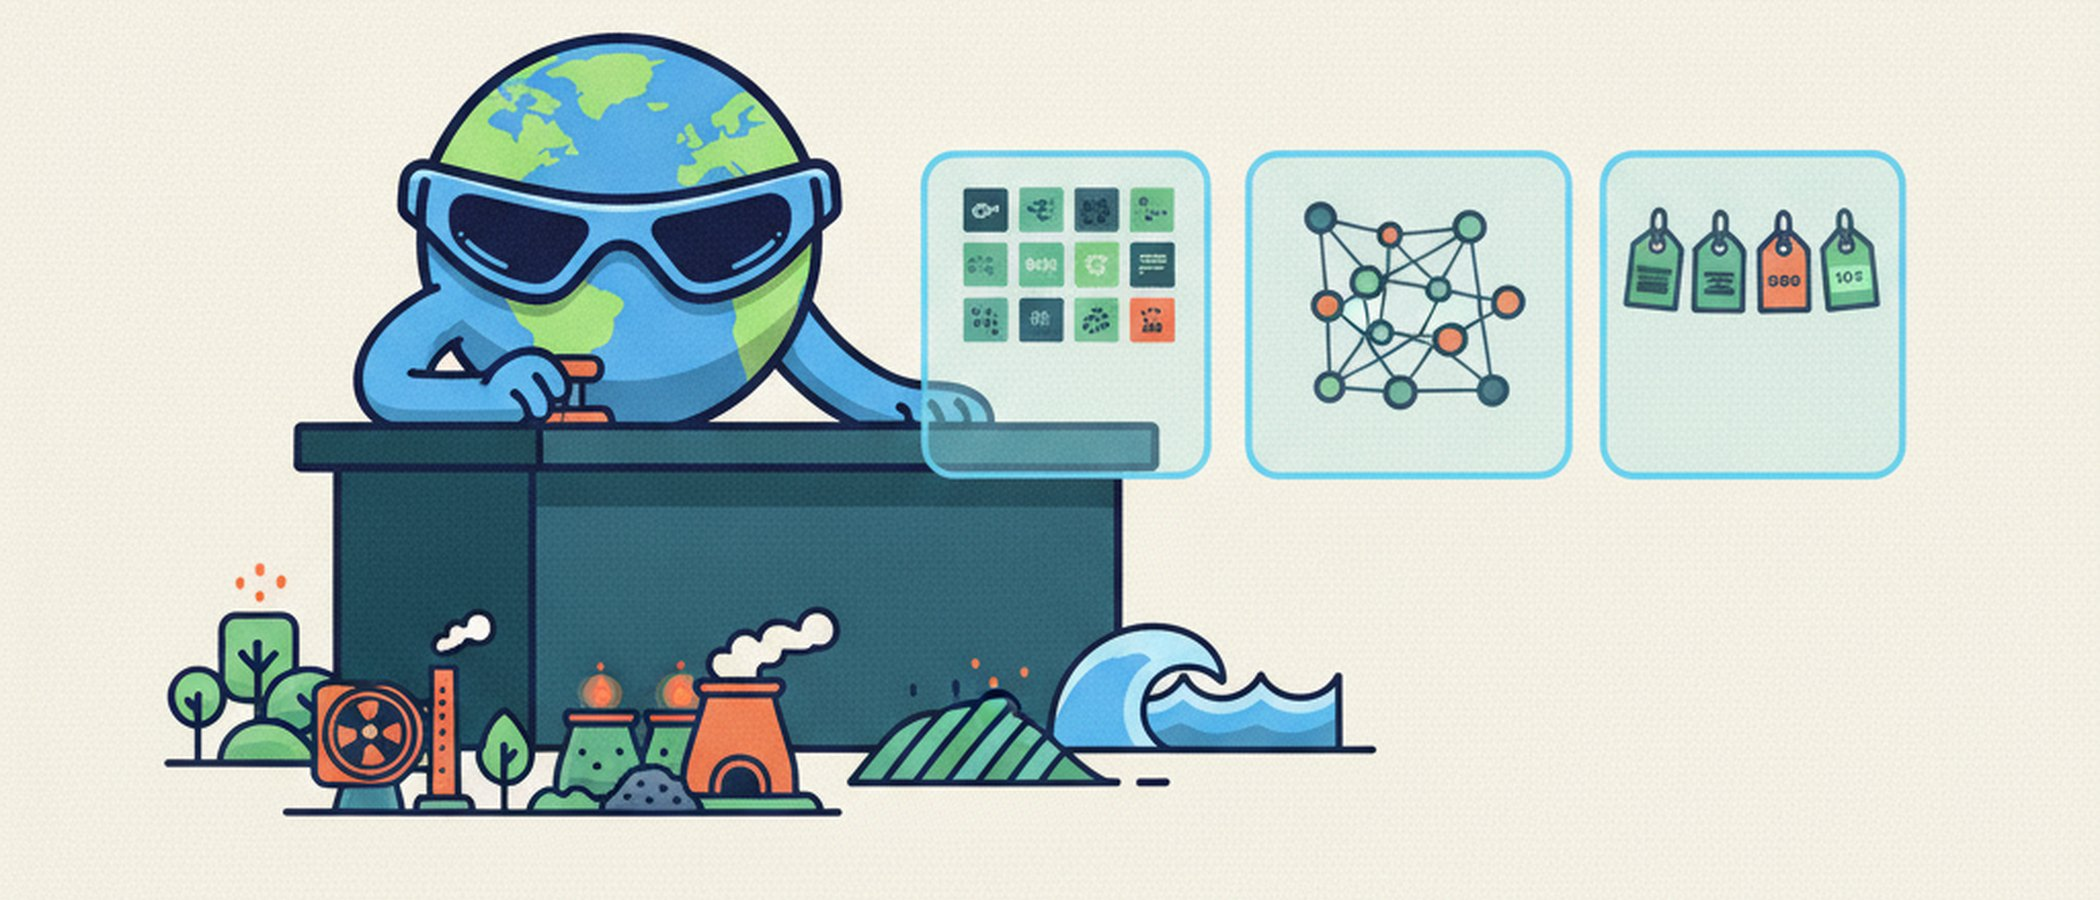
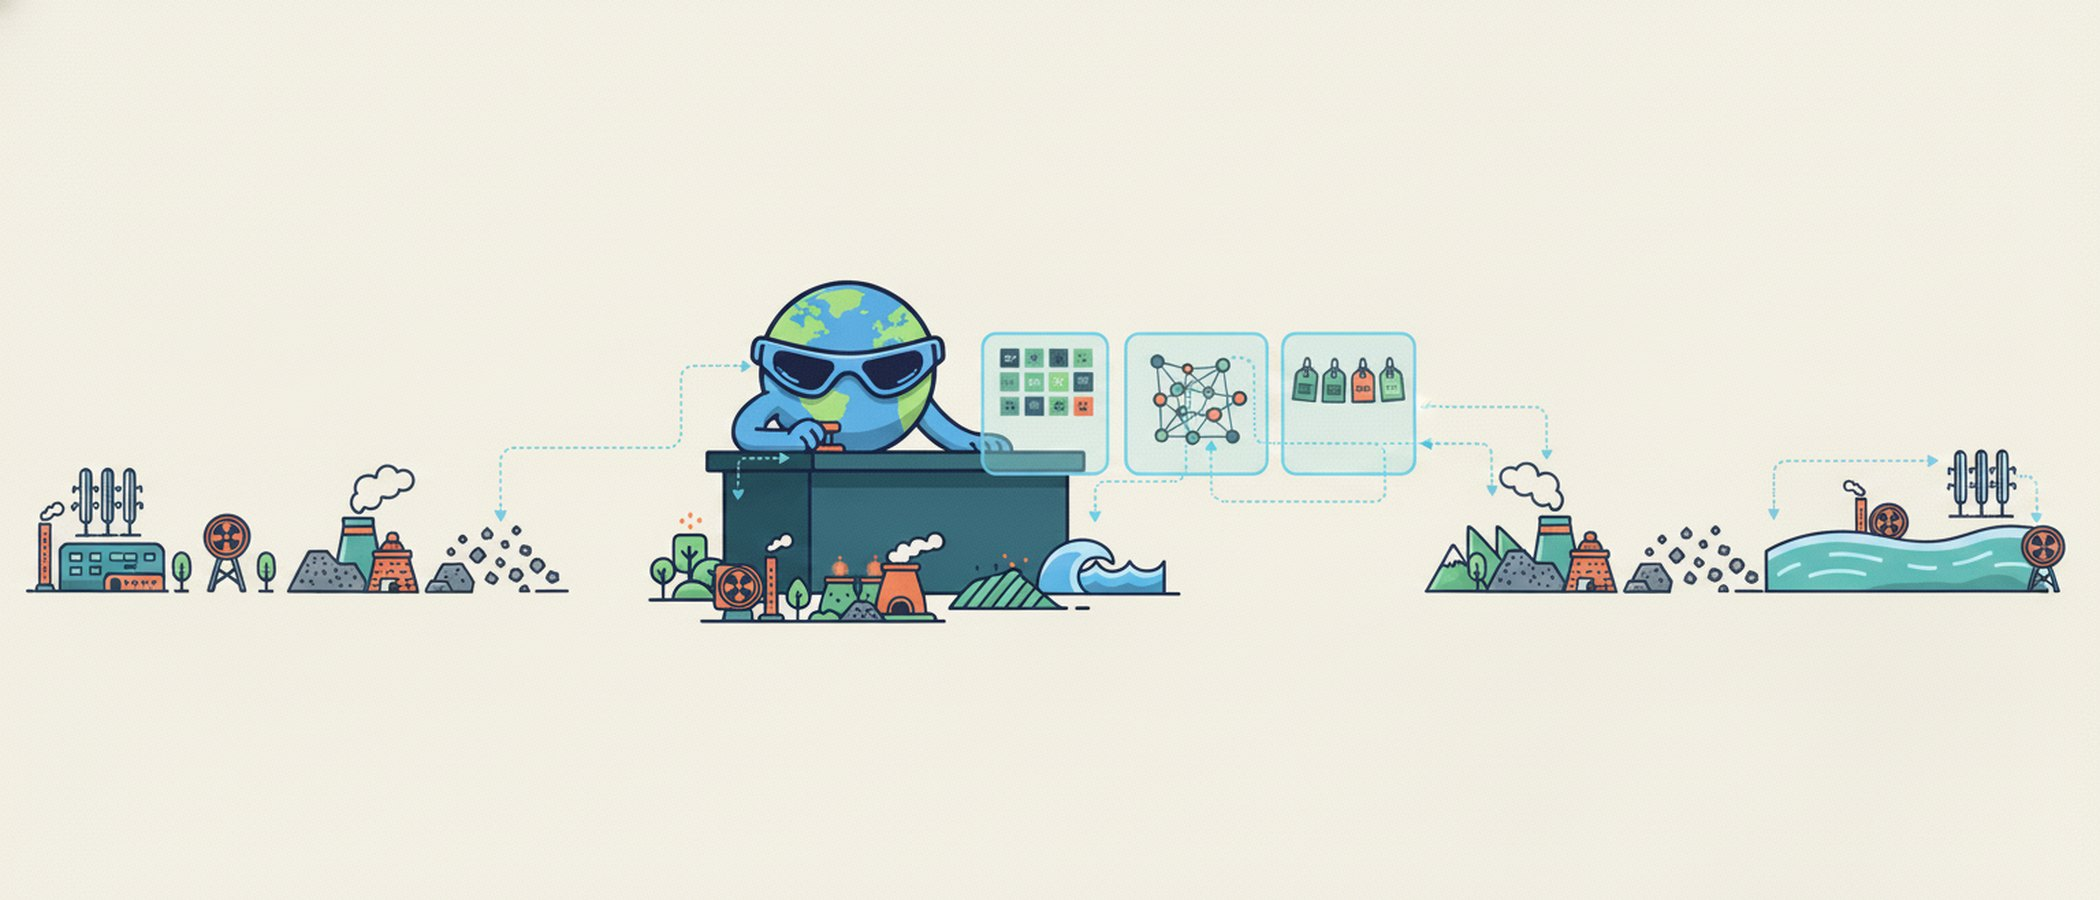
Homepage hero B (wide Captain scene); directory pathway cards in a titled box; ERW chips
Claude-Session: https://claude.ai/code/session_01VKpAB4eLMmejb9sQekW26b

diff --git a/assets/css/extended/10-pictograms.css b/assets/css/extended/10-pictograms.css
@@ -22,6 +22,7 @@
 
 /* Pathway cards (directory index) */
 .cd-pwgrid { display: grid; grid-template-columns: repeat(auto-fit, minmax(150px, 1fr)); gap: var(--space-3); margin: var(--space-4) 0 var(--space-5); }
+.cd-stripgroup .cd-pwgrid { margin: 0; }
 .cd-pwcard { display: flex; flex-direction: column; gap: 6px; padding: var(--space-3) var(--space-4); background: var(--surface-1); border: 1px solid var(--line); border-radius: var(--radius-md); color: var(--ink); text-decoration: none; }
 .cd-pwcard:hover { background: var(--surface-2); text-decoration: none; }
 .cd-pwcard .n { font-family: var(--font-sans); font-size: 26px; line-height: 30px; font-weight: 700; font-variant-numeric: tabular-nums; }

diff --git a/content/directory/_index.md b/content/directory/_index.md
@@ -8,7 +8,9 @@ wide: true
 
 <div class="cd-stripgroup"><h3 class="cd-strip-h">The directory</h3><div class="cd-strip"><div class="cd-stat"><span class="cd-ic cd-ic--published" aria-hidden="true"></span><span class="num">913</span><span class="label">published</span></div><div class="cd-stat"><span class="cd-ic cd-ic--monitored" aria-hidden="true"></span><span class="num">1,470</span><span class="label">monitored</span></div><div class="cd-stat"><span class="cd-ic cd-ic--countries" aria-hidden="true"></span><span class="num">65</span><span class="label">countries</span></div><div class="cd-stat"><span class="cd-ic cd-ic--pathways" aria-hidden="true"></span><span class="num">8</span><span class="label">pathways</span></div></div></div><div class="cd-stripgroup"><h3 class="cd-strip-h">Where the companies are based</h3><div class="cd-strip"><div class="cd-stat"><span class="cd-ic cd-ic--region" aria-hidden="true"></span><span class="num">356</span><span class="label">in the Americas</span></div><div class="cd-stat"><span class="cd-ic cd-ic--region" aria-hidden="true"></span><span class="num">403</span><span class="label">in Europe</span></div><div class="cd-stat"><span class="cd-ic cd-ic--region" aria-hidden="true"></span><span class="num">117</span><span class="label">in Asia and Oceania</span></div><div class="cd-stat"><span class="cd-ic cd-ic--region" aria-hidden="true"></span><span class="num">32</span><span class="label">in Africa</span></div></div></div><div class="cd-stripgroup"><h3 class="cd-strip-h">Liveliness status</h3><div class="cd-strip"><div class="cd-stat cd-stat--active"><span class="cd-ic cd-ic--active" aria-hidden="true"></span><span class="num">690</span><span class="label">Active</span></div><div class="cd-stat cd-stat--moderate"><span class="cd-ic cd-ic--moderate" aria-hidden="true"></span><span class="num">77</span><span class="label">Moderate</span></div><div class="cd-stat cd-stat--suspect"><span class="cd-ic cd-ic--suspect" aria-hidden="true"></span><span class="num">32</span><span class="label">Suspect</span></div><div class="cd-stat cd-stat--dead"><span class="cd-ic cd-ic--dead" aria-hidden="true"></span><span class="num">114</span><span class="label">Likely dead</span></div></div></div>
 
+<div class="cd-stripgroup"><h3 class="cd-strip-h">By primary pathway</h3>
 <div class="cd-pwgrid"><a class="cd-pwcard" href="/directory/biochar/"><span class="cd-pw cd-pw--biochar cd-pw--lg" aria-hidden="true"></span><span class="n">377</span><span class="l">Biochar</span></a><a class="cd-pwcard" href="/directory/enabling-tech/"><span class="cd-pw cd-pw--enabling-tech cd-pw--lg" aria-hidden="true"></span><span class="n">179</span><span class="l">Enabling Tech</span></a><a class="cd-pwcard" href="/directory/dac/"><span class="cd-pw cd-pw--dac cd-pw--lg" aria-hidden="true"></span><span class="n">125</span><span class="l">DAC</span></a><a class="cd-pwcard" href="/directory/beccs/"><span class="cd-pw cd-pw--beccs cd-pw--lg" aria-hidden="true"></span><span class="n">84</span><span class="l">BECCS</span></a><a class="cd-pwcard" href="/directory/mineralization/"><span class="cd-pw cd-pw--mineralization cd-pw--lg" aria-hidden="true"></span><span class="n">42</span><span class="l">Mineralization</span></a><a class="cd-pwcard" href="/directory/ocean-cdr/"><span class="cd-pw cd-pw--ocean-cdr cd-pw--lg" aria-hidden="true"></span><span class="n">42</span><span class="l">Ocean CDR</span></a><a class="cd-pwcard" href="/directory/enhanced-weathering/"><span class="cd-pw cd-pw--enhanced-weathering cd-pw--lg" aria-hidden="true"></span><span class="n">33</span><span class="l">Enhanced Weathering</span></a><a class="cd-pwcard" href="/directory/biomass-burial/"><span class="cd-pw cd-pw--biomass-burial cd-pw--lg" aria-hidden="true"></span><span class="n">31</span><span class="l">Biomass Burial</span></a></div>
+</div>
 
 <p class="cd-links">Release 2026-11.4, data as of 2026-11-05 · <a href="#all-companies">Jump to the table</a> · <a href="/data/companies/">Data page, CSV, JSON, API</a> · <a href="/directory/history/">History</a></p>
 

diff --git a/content/directory/history/_index.md b/content/directory/history/_index.md
@@ -34,6 +34,24 @@ Yearly count of CDR-relevant papers per pathway from my [CDR Researcher Census](
 
 _The census counts six pathways (DAC, BECCS, enhanced weathering, ocean CDR, biochar, cross-cutting CDR); the company directory uses eight. Mineralization, biomass burial and enabling technology have no census tag, so the two views do not match pathway by pathway._
 
+## Companies and staff per country
+
+One dot per country with at least three pure-play CDR companies: the number of companies headquartered there against the sum of their estimated headcounts (LinkedIn size bands). Both axes are logarithmic, so countries with thousands of CDR employees share the chart with countries of a few dozen. Countries above the cloud have few but large operators; countries below it have many small startups and no anchor company. No company is named here, and no country with fewer than three companies appears, so no single company's headcount can be read off a dot.
+
+![Companies and staff per country](/charts/history-country-scatter.png)
+
+## Companies and staff per pathway
+
+The same picture with one dot per pathway, on linear axes: how many pure-play companies pursue the approach against their combined headcount. Biochar sits far to the right, many small companies; DAC sits high with few companies, because a plant is an engineering programme of hundreds of people. A pathway in the lower left is early or capital-light, not necessarily failing.
+
+![Companies and staff per pathway](/charts/history-pathway-scatter.png)
+
+## Founding year and headcount, one dot per company
+
+Each dot is one pure-play CDR company, founding year against estimated headcount on a log scale, coloured by pathway, with a density underlay that shows where the crowd sits and the percentile lines of the founding years. The centre of mass is small and young: most of the industry is fewer than 25 people and founded after 2020. The few companies with 100 and more people carry most of the operational capacity. The dots carry no names.
+
+![Founding year and headcount per company](/charts/history-fte-growth.png)
+
 ## Industry structure by pathway
 
 Each bar is one pathway, split by the EU SME size class of its published companies: micro (under 10 staff), small (10 to 49), medium (50 to 249) and large (250 and more), derived from LinkedIn size bands and other staff signals. Per-company headcounts are licensed data and stay unpublished; the class is the public form, here and in the [directory](/directory/).
